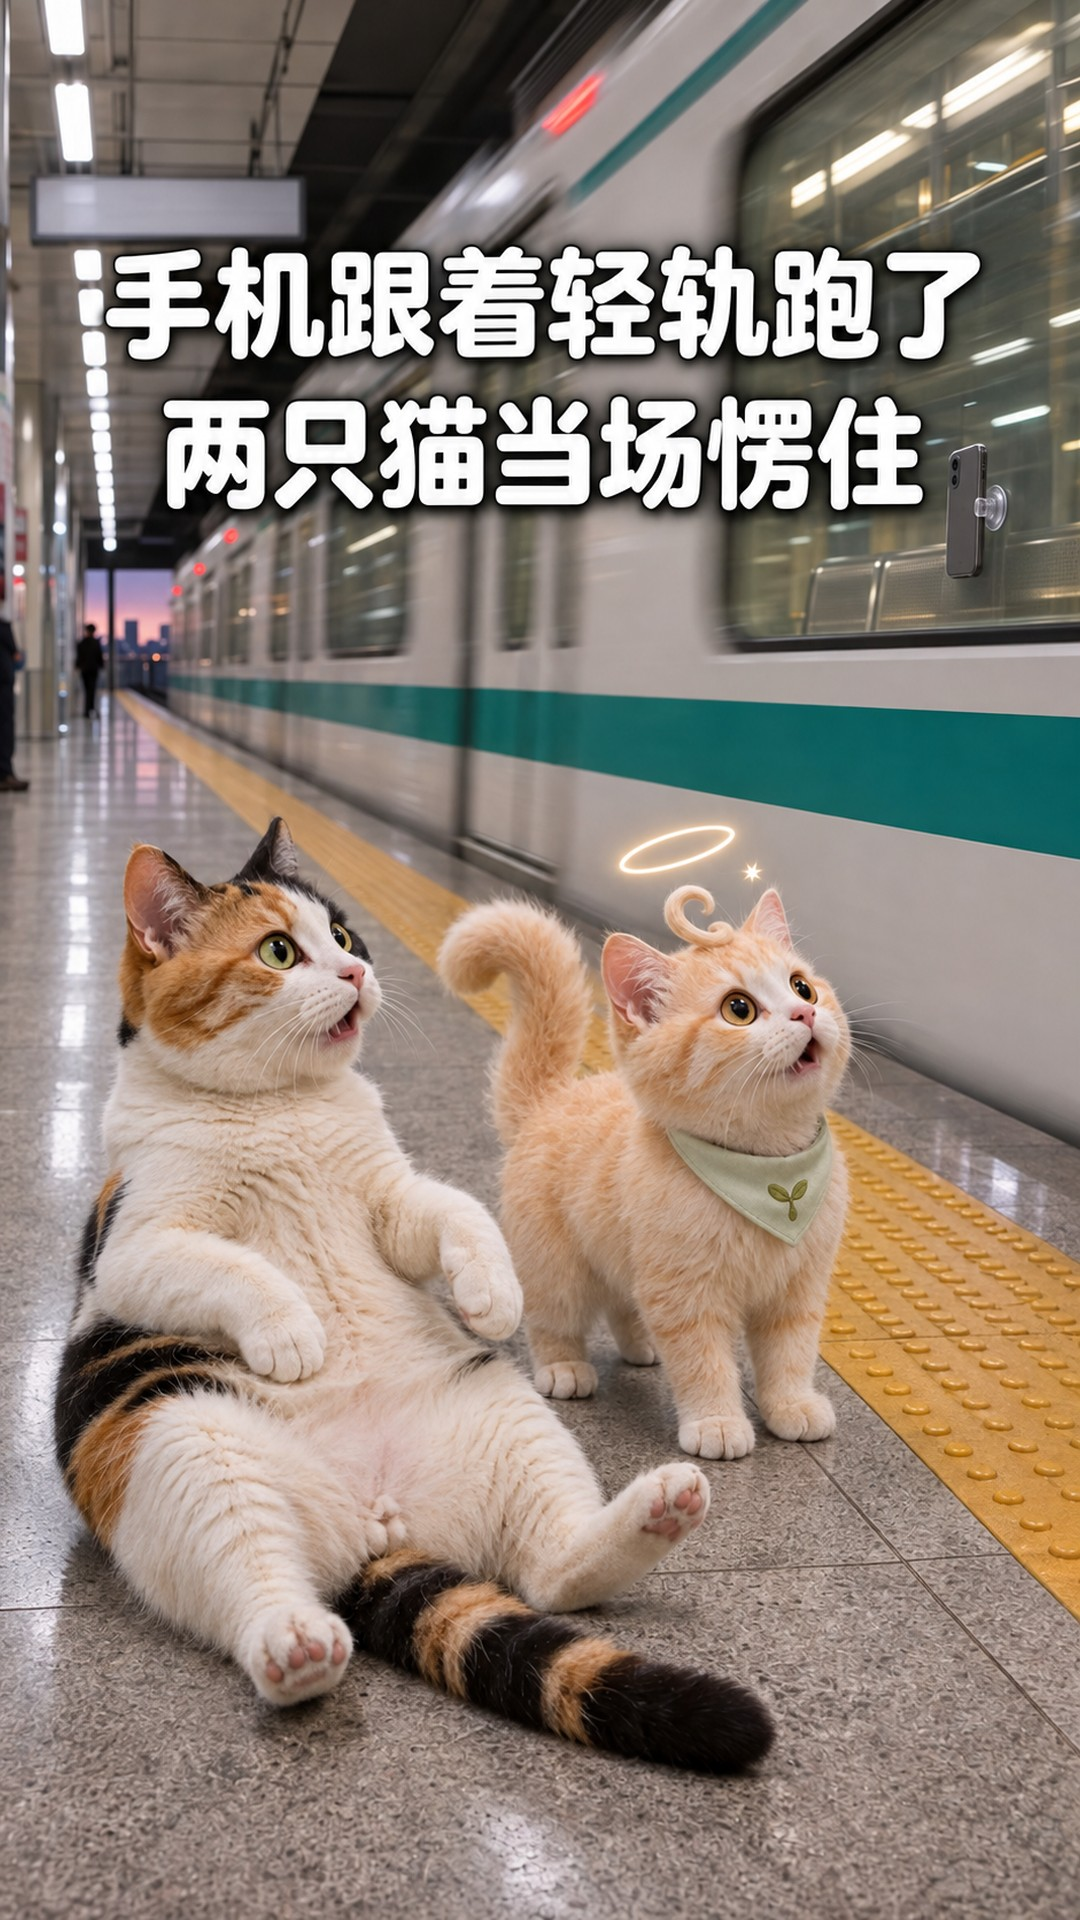
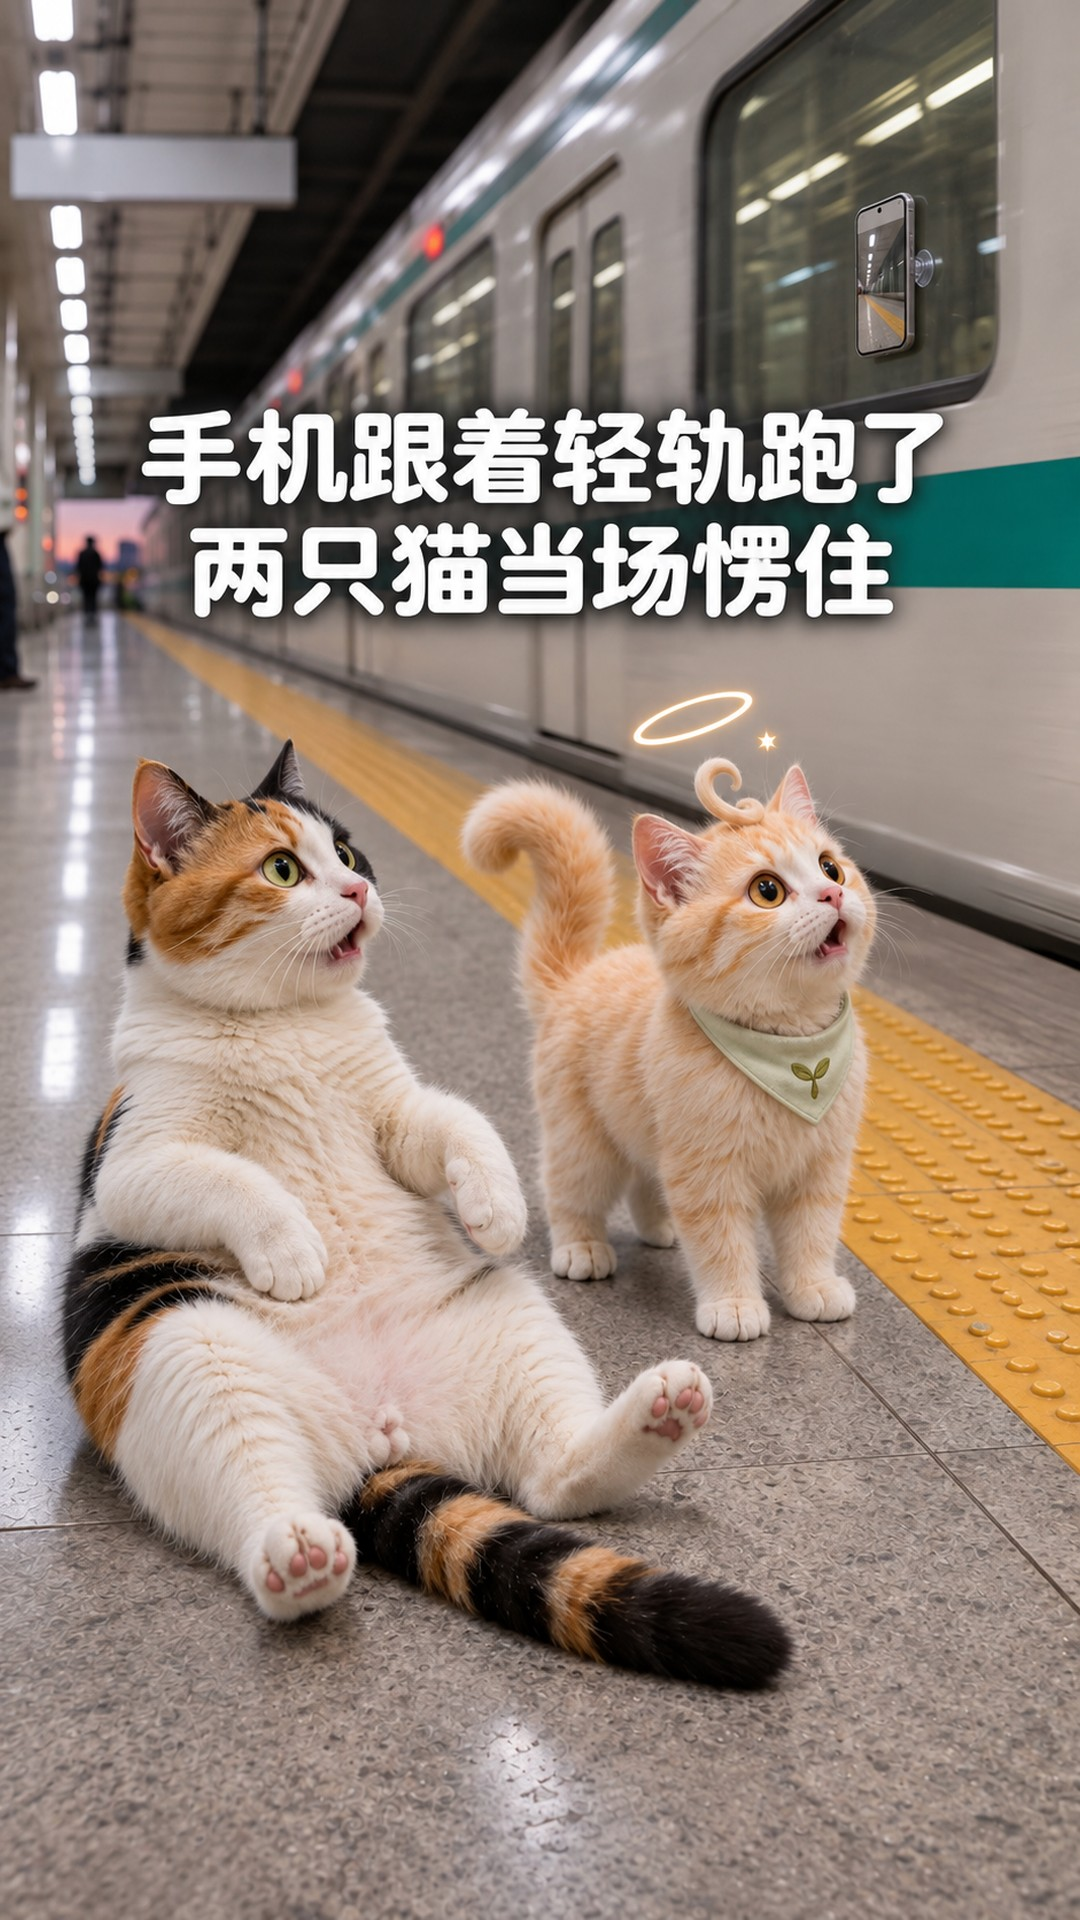
Publish kit: add EP5 (猫拍的山城)

diff --git a/projects/ai-video/publish/index.html b/projects/ai-video/publish/index.html
@@ -223,7 +223,7 @@ ul{padding-left:20px;margin:6px 0}li{margin:3px 0}footer{margin-top:40px;font-si
 <article class="ep" id="ep5"><div class="eph"><span class="num">第5单</span><h2>《猫拍的山城》</h2><span class="meta">no.00005 · 2分55秒 · 竖屏 1080×1920</span></div>
 <p class="log">小周做城市文宣，脚本被毙了好多版。三花猫冰粉拔下一根胡须许愿，蛋卷带着她揣上主人的手机出门边想边拍，可拍的都很普通；直到在轻轨站冰粉脚下一滑，手机吸在车窗上被带走，一路拍下了隧道、两江、大桥和亮灯的山城。</p><p class="res"><b>两种共鸣：</b>我也有这个苦恼：改了好多版的东西，还不如随手一拍；我家的猫也这样：总爱扒拉我的手机、凑到镜头前挤脸。引流靠三个词：重庆（城市题材长期热门，“8D魔幻城市”是现成的梗）、轻轨（重庆的招牌）、猫咪视角（“猫拍的vlog”一直有人爱看）。无强时效，接在第4单后 2–3 天发。</p><p class="res"><b>封面取帧：</b>抖音封面帧 1:58（两只猫在站台上愣住，望着开走的轻轨，无字幕）；快手 1:57（吸在车窗上的手机，屏幕里拍到两只猫）；小红书 2:32（车窗外黄昏的大桥）＋小图 2:14（两只猫瞪大眼睛看手机）；B站排版稿 2:32 背景＋2:14 原帧。成片带字幕，以上都是无字幕时刻。</p>
 <div class="plats"><section class="plat douyin"><h3>抖音</h3>
-<div class="covers"><a class="cov tall" href="covers/ep5_douyin_9x16.jpg?v=20261105-ep5" download><img src="covers/ep5_douyin_9x16.jpg?v=20261105-ep5" alt="抖音封面 ep5_douyin_9x16.jpg" loading="lazy"><span>9:16 · 下载</span></a><a class="cov mid" href="covers/ep5_douyin_3x4.jpg?v=20261105-ep5" download><img src="covers/ep5_douyin_3x4.jpg?v=20261105-ep5" alt="抖音封面 ep5_douyin_3x4.jpg" loading="lazy"><span>3:4 · 下载</span></a></div>
+<div class="covers"><a class="cov tall" href="covers/ep5_douyin_9x16.jpg?v=20261105-ep5-v2" download><img src="covers/ep5_douyin_9x16.jpg?v=20261105-ep5-v2" alt="抖音封面 ep5_douyin_9x16.jpg" loading="lazy"><span>9:16 · 下载</span></a><a class="cov mid" href="covers/ep5_douyin_3x4.jpg?v=20261105-ep5-v2" download><img src="covers/ep5_douyin_3x4.jpg?v=20261105-ep5-v2" alt="抖音封面 ep5_douyin_3x4.jpg" loading="lazy"><span>3:4 · 下载</span></a></div>
 <div class="field"><div class="fh"><b>标题</b><button class="copy" type="button" data-copy="改了好多版的宣传片，不如我家猫手一滑拍的🚝">复制</button></div><p class="t">改了好多版的宣传片，不如我家猫手一滑拍的🚝</p></div>
 <div class="field"><div class="fh"><b>简介 / 描述</b><button class="copy" type="button" data-copy="“走，我们边想边拍吧！”
 两只猫揣着我的手机逛了一圈重庆，拍的都很普通。
@@ -231,14 +231,14 @@ ul{padding-left:20px;margin:6px 0}li{margin:3px 0}footer{margin-top:40px;font-si
 出隧道、过江、大桥亮灯，猫咪视角的8D重庆，全拍下来了。">复制</button></div><p class="d">“走，我们边想边拍吧！”<br>两只猫揣着我的手机逛了一圈重庆，拍的都很普通。<br>直到轻轨站脚下一滑，手机“啪”地吸在了车窗上——<br>出隧道、过江、大桥亮灯，猫咪视角的8D重庆，全拍下来了。</p></div>
 <div class="field"><div class="fh"><b>话题</b><button class="copy" type="button" data-copy="#AI萌宠 #蛋卷万事屋 #重庆 #重庆轻轨 #猫咪视角 #8D魔幻城市">复制</button></div><p class="tg">#AI萌宠 #蛋卷万事屋 #重庆 #重庆轻轨 #猫咪视角 #8D魔幻城市</p></div>
 <p class="note">标题讲反转（人改好多版，不如猫手一滑），封面讲那一刻：两只猫愣在站台上望着轻轨，“手机跟着轻轨跑了／两只猫当场愣住”。文字压在车厢上，避开猫脸和底部 200px 按钮区；3:4 由 9:16 居中裁出。</p></section><section class="plat kuaishou"><h3>快手</h3>
-<div class="covers"><a class="cov tall" href="covers/ep5_kuaishou_9x16.jpg?v=20261105-ep5" download><img src="covers/ep5_kuaishou_9x16.jpg?v=20261105-ep5" alt="快手封面 ep5_kuaishou_9x16.jpg" loading="lazy"><span>9:16 · 下载</span></a><a class="cov mid" href="covers/ep5_kuaishou_3x4.jpg?v=20261105-ep5" download><img src="covers/ep5_kuaishou_3x4.jpg?v=20261105-ep5" alt="快手封面 ep5_kuaishou_3x4.jpg" loading="lazy"><span>3:4 · 下载</span></a></div>
+<div class="covers"><a class="cov tall" href="covers/ep5_kuaishou_9x16.jpg?v=20261105-ep5-v2" download><img src="covers/ep5_kuaishou_9x16.jpg?v=20261105-ep5-v2" alt="快手封面 ep5_kuaishou_9x16.jpg" loading="lazy"><span>9:16 · 下载</span></a><a class="cov mid" href="covers/ep5_kuaishou_3x4.jpg?v=20261105-ep5-v2" download><img src="covers/ep5_kuaishou_3x4.jpg?v=20261105-ep5-v2" alt="快手封面 ep5_kuaishou_3x4.jpg" loading="lazy"><span>3:4 · 下载</span></a></div>
 <div class="field"><div class="fh"><b>标题</b><button class="copy" type="button" data-copy="小伙写宣传片脚本被毙了好多次，家里的三花猫偷偷带着他的手机出门，阴差阳错坐着轻轨拍下了整座重庆，看完心里暖暖的">复制</button></div><p class="t">小伙写宣传片脚本被毙了好多次，家里的三花猫偷偷带着他的手机出门，阴差阳错坐着轻轨拍下了整座重庆，看完心里暖暖的</p></div>
 <div class="field"><div class="fh"><b>简介 / 描述</b><button class="copy" type="button" data-copy="改稿改到睡着的，举个爪🐾
 有时候最好的镜头，是一不小心拍到的。
 “冰粉，你简直就是天才！”">复制</button></div><p class="d">改稿改到睡着的，举个爪🐾<br>有时候最好的镜头，是一不小心拍到的。<br>“冰粉，你简直就是天才！”</p></div>
 <div class="field"><div class="fh"><b>话题</b><button class="copy" type="button" data-copy="#AI萌宠 #重庆 #重庆轻轨 #猫咪">复制</button></div><p class="tg">#AI萌宠 #重庆 #重庆轻轨 #猫咪</p></div>
 <p class="note">车窗上的手机正拍着两只猫，黄字“猫的手机／自己坐上了轻轨”，一句话讲清看点。</p></section><section class="plat xiaohongshu"><h3>小红书</h3>
-<div class="covers"><a class="cov mid" href="covers/ep5_xiaohongshu_3x4.jpg?v=20261105-ep5" download><img src="covers/ep5_xiaohongshu_3x4.jpg?v=20261105-ep5" alt="小红书封面 ep5_xiaohongshu_3x4.jpg" loading="lazy"><span>3:4 · 下载</span></a></div>
+<div class="covers"><a class="cov mid" href="covers/ep5_xiaohongshu_3x4.jpg?v=20261105-ep5-v2" download><img src="covers/ep5_xiaohongshu_3x4.jpg?v=20261105-ep5-v2" alt="小红书封面 ep5_xiaohongshu_3x4.jpg" loading="lazy"><span>3:4 · 下载</span></a></div>
 <div class="field"><div class="fh"><b>标题</b><button class="copy" type="button" data-copy="这段重庆夜景，竟然是我家猫拍的">复制</button></div><p class="t">这段重庆夜景，竟然是我家猫拍的</p></div>
 <div class="field"><div class="fh"><b>正文</b><button class="copy" type="button" data-copy="做城市文宣的打工人，脚本被毙了好多版😮💨 周六改到半夜，倒头就睡。
 
@@ -257,7 +257,7 @@ ul{padding-left:20px;margin:6px 0}li{margin:3px 0}footer{margin-top:40px;font-si
 ——蛋卷万事屋 第5单｜AI原创萌宠短剧">复制</button></div><p class="d">做城市文宣的打工人，脚本被毙了好多版😮💨 周六改到半夜，倒头就睡。<br><br>醒来，手机里多了一段视频……<br><br>🐾 拍视频的是我家三花猫冰粉，还有一只头顶光环的小卷毛猫<br>📸 她俩揣着我的手机逛了一圈重庆：江边、索道、老街、扶梯，自拍了一堆——糊的、黑的、大头的，都很普通<br>🚝 结果在轻轨站，冰粉脚下一滑，手机“啪”地吸在了车窗上，跟着轻轨跑了<br>🌉 猫咪视角的重庆就这么拍下来了：出隧道、过江、看大桥，从黄昏一直拍到亮灯<br>📱 后来她俩还把手机找了回来<br><br>看完我只想说：冰粉，你简直就是天才！<br>天天路过的城市，换成猫的角度，原来这么好看。<br>你家猫会拍什么？<br><br>——蛋卷万事屋 第5单｜AI原创萌宠短剧</p></div>
 <div class="field"><div class="fh"><b>话题</b><button class="copy" type="button" data-copy="#AI萌宠 #重庆 #重庆夜景 #重庆轻轨 #猫咪视角 #三花猫 #蛋卷万事屋 #AI短剧">复制</button></div><p class="tg">#AI萌宠 #重庆 #重庆夜景 #重庆轻轨 #猫咪视角 #三花猫 #蛋卷万事屋 #AI短剧</p></div>
 <p class="note">车窗外黄昏的大桥做底，右下角放两只猫瞪大眼睛看手机的小图；奶白卡片“这段重庆夜景／是我家猫拍的”。标题和封面都带“重庆夜景”，方便被搜到。</p></section><section class="plat bilibili"><h3>B站</h3>
-<div class="covers"><a class="cov wide" href="covers/ep5_bilibili_4x3.jpg?v=20261105-ep5" download><img src="covers/ep5_bilibili_4x3.jpg?v=20261105-ep5" alt="B站封面 ep5_bilibili_4x3.jpg" loading="lazy"><span>4:3 · 下载</span></a></div>
+<div class="covers"><a class="cov wide" href="covers/ep5_bilibili_4x3.jpg?v=20261105-ep5-v2" download><img src="covers/ep5_bilibili_4x3.jpg?v=20261105-ep5-v2" alt="B站封面 ep5_bilibili_4x3.jpg" loading="lazy"><span>4:3 · 下载</span></a></div>
 <div class="field"><div class="fh"><b>标题</b><button class="copy" type="button" data-copy="【AI萌宠短剧】城市宣传片被毙了好多版？猫用一部手机、一趟轻轨，拍下了8D重庆｜蛋卷万事屋 第5单">复制</button></div><p class="t">【AI萌宠短剧】城市宣传片被毙了好多版？猫用一部手机、一趟轻轨，拍下了8D重庆｜蛋卷万事屋 第5单</p></div>
 <div class="field"><div class="fh"><b>简介 / 描述</b><button class="copy" type="button" data-copy="小周做城市文宣，脚本被毙了好多版，累到睡着。三花猫冰粉拔下一根胡须许愿，蛋卷来了：“走，我们边想边拍吧！”两只猫揣着手机逛遍山城——江边、索道、老街、扶梯，拍的却都很普通。直到在轻轨站冰粉脚下一滑，手机吸在车窗上被带走，猫咪视角一路拍下了隧道、两江、大桥和亮灯的夜景。
 
